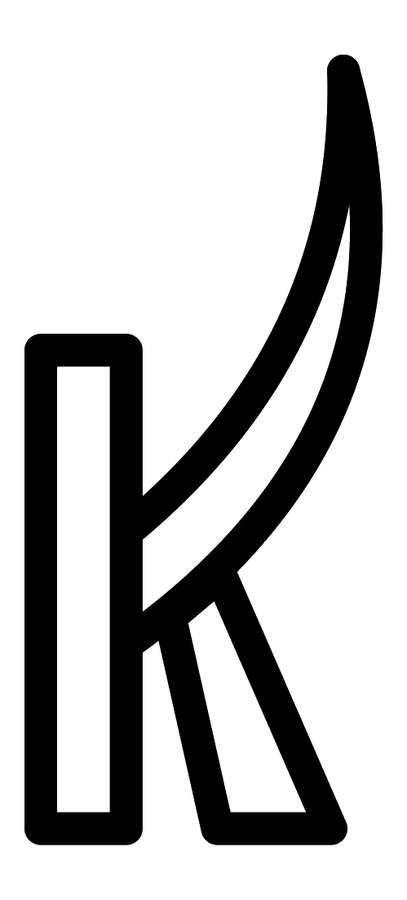
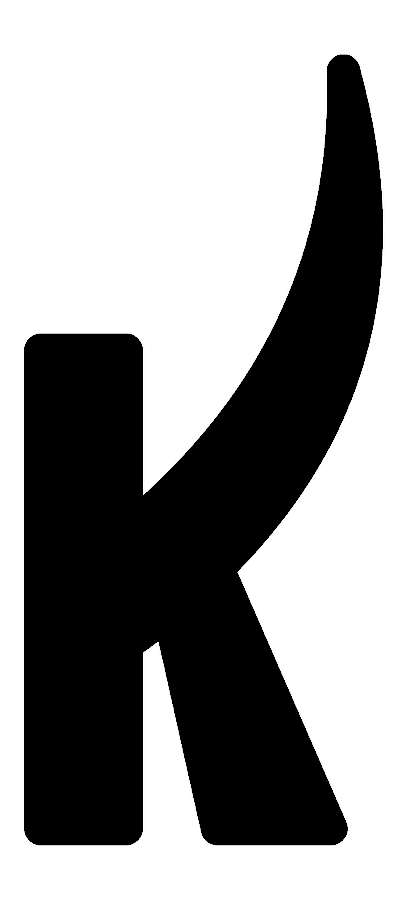
puuuu

Changed region(s): [[0.1179, 0.4044, 0.2948, 0.9022], [0.3243, 0.2178, 0.8845, 0.6844], [0.4423, 0.6533, 0.7666, 0.9022]]

diff --git a/main.js b/main.js
@@ -68,6 +68,22 @@
   qsa(".split-chars").forEach(splitChars);
   qsa(".split-lines").forEach(splitWords);
 
+  // The brand mark replaces the K glyph inside the wordmark itself, in both
+  // the fill and the trace layer, so the name carries the logo from frame one.
+  (function installKMark() {
+    if (!body.classList.contains("home-page")) return;
+    var chars = qsa(".wordmark--fill .char");
+    if (chars.length < 12) return;
+    var kChar = chars[7];
+    kChar.classList.add("char--kmark");
+    kChar.innerHTML = '<img src="assets/brand/k-mark.png" alt="">';
+    if (kChar.parentNode) kChar.parentNode.classList.add("char-clip--kmark");
+    var trace = doc.querySelector(".wordmark--trace");
+    if (trace) {
+      trace.innerHTML = 'Etienne<img class="wordmark__kmark-trace" src="assets/brand/k-mark.png" alt="">ainz';
+    }
+  })();
+
   function initSmoothScroll() {
     if (reduceMotion || !window.Lenis) return;
     try {
@@ -423,7 +439,7 @@
           duration: 0.34,
           ease: "power4.inOut"
         }, 0.035)
-        .to(".wordmark--fill .char-clip", {
+        .to(".wordmark--fill .char-clip:not(.char-clip--kmark)", {
           yPercent: -118,
           rotate: function (index) { return (index % 2 ? 1 : -1) * (1.8 + index * 0.13); },
           duration: 0.24,
@@ -455,44 +471,49 @@
           ease: "power3.in"
         }, 0.78);
 
-      // The Kainz mark takes over from the wordmark's K: it appears on the
-      // letter as the name dissolves, glides to the field centre while
-      // growing, and hands off to the particle K the field assembles.
+      // The wordmark's brand-K stays behind while the letters scatter, then
+      // glides to the field centre and granularly disintegrates through
+      // baked erosion frames — crumbling into the very particle K the field
+      // assembles underneath it.
       var kLogo = hero.querySelector(".hero__klogo");
-      var kChar = hero.querySelectorAll(".wordmark--fill .char-clip")[7];
-      if (kLogo && kChar) {
+      var kInline = hero.querySelector(".char--kmark img");
+      if (kLogo && kInline) {
+        var kFrames = kLogo.querySelectorAll("img");
         var kStart = function () {
           var stageBounds = heroStage.getBoundingClientRect();
-          var charBounds = kChar.getBoundingClientRect();
+          var markBounds = kInline.getBoundingClientRect();
           return {
-            x: charBounds.left - stageBounds.left + charBounds.width / 2 - kLogo.offsetWidth / 2,
-            y: charBounds.top - stageBounds.top + charBounds.height / 2 - kLogo.offsetHeight / 2,
-            scale: charBounds.height * 1.08 / Math.max(1, kLogo.offsetHeight)
+            x: markBounds.left - stageBounds.left + markBounds.width / 2 - kLogo.offsetWidth / 2,
+            y: markBounds.top - stageBounds.top + markBounds.height / 2 - kLogo.offsetHeight / 2,
+            scale: markBounds.height / Math.max(1, kLogo.offsetHeight)
           };
         };
         openingTimeline
+          // Pixel-perfect takeover from the inline mark before letters move.
           .fromTo(kLogo, {
             x: function () { return kStart().x; },
             y: function () { return kStart().y; },
             scale: function () { return kStart().scale; },
-            opacity: 0,
-            filter: "blur(0px)"
-          }, { opacity: 1, duration: 0.05, ease: "none" }, 0.07)
+            opacity: 0
+          }, { opacity: 1, duration: 0.025, ease: "none" }, 0.05)
+          .to(".char-clip--kmark", { opacity: 0, duration: 0.015, ease: "none" }, 0.075)
           .to(kLogo, {
             x: function () { return window.innerWidth * 0.51 - kLogo.offsetWidth / 2; },
             y: function () { return window.innerHeight * 0.45 - kLogo.offsetHeight / 2; },
             scale: function () { return window.innerHeight * 0.55 / Math.max(1, kLogo.offsetHeight); },
-            duration: 0.21,
+            duration: 0.24,
             ease: "power2.inOut"
-          }, 0.115)
-          // Still moving while it decoheres — the mark melts into the same
-          // particles the field is assembling underneath it.
-          .to(kLogo, {
-            opacity: 0,
-            filter: "blur(9px)",
-            duration: 0.14,
-            ease: "power1.inOut"
-          }, 0.26);
+          }, 0.1)
+          // Granular disintegration: solid → coarse → sparse → dust.
+          .to(kFrames[0], { opacity: 0, duration: 0.05, ease: "none" }, 0.26)
+          .to(kFrames[1], { opacity: 1, duration: 0.045, ease: "none" }, 0.252)
+          .to(kFrames[1], { opacity: 0, duration: 0.05, ease: "none" }, 0.315)
+          .to(kFrames[2], { opacity: 1, duration: 0.045, ease: "none" }, 0.308)
+          .to(kFrames[2], { opacity: 0, duration: 0.05, ease: "none" }, 0.37)
+          .to(kFrames[3], { opacity: 1, duration: 0.045, ease: "none" }, 0.362)
+          .to(kFrames[3], { opacity: 0, duration: 0.075, ease: "power1.in" }, 0.425)
+          // The dust keeps drifting up and outward as it converts.
+          .to(kLogo, { y: "-=34", scale: "+=0.06", duration: 0.24, ease: "none" }, 0.26);
       }
     }
 

diff --git a/styles.css b/styles.css
@@ -754,6 +754,24 @@ img {
   height: auto;
 }
 
+/* Baked erosion stages stack on the base mark; GSAP crossfades them. */
+.hero__klogo img + img {
+  position: absolute;
+  inset: 0;
+  opacity: 0;
+  will-change: opacity;
+}
+
+/* The brand mark replaces the K glyph inside the wordmark itself. */
+.char--kmark img,
+.wordmark__kmark-trace {
+  display: inline-block;
+  width: auto;
+  height: .9em;
+  margin: 0 .025em;
+  transform: translateY(.065em);
+}
+
 .hero__subline {
   position: absolute;
   right: var(--pad);

diff --git a/index.html b/index.html
@@ -16,7 +16,7 @@
   <link rel="preconnect" href="https://fonts.googleapis.com">
   <link rel="preconnect" href="https://fonts.gstatic.com" crossorigin>
   <link href="https://fonts.googleapis.com/css2?family=IBM+Plex+Mono:wght@400;500&amp;family=Space+Grotesk:wght@400;500;600&amp;display=swap" rel="stylesheet">
-  <link rel="stylesheet" href="styles.css?v=12">
+  <link rel="stylesheet" href="styles.css?v=13">
 </head>
 <body class="home-page is-loading">
   <a class="skip-link" href="#main">Skip to content</a>
@@ -89,7 +89,12 @@
           <h1 class="wordmark wordmark--fill split-chars">EtienneKainz</h1>
           <div class="wordmark wordmark--trace" aria-hidden="true">EtienneKainz</div>
         </div>
-        <div class="hero__klogo" aria-hidden="true"><img src="assets/brand/k-mark.png" alt=""></div>
+        <div class="hero__klogo" aria-hidden="true">
+          <img src="assets/brand/k-mark.png" alt="">
+          <img src="assets/brand/k-dissolve-1.png" alt="">
+          <img src="assets/brand/k-dissolve-2.png" alt="">
+          <img src="assets/brand/k-dissolve-3.png" alt="">
+        </div>
         <div class="hero__subline" data-reveal="rise">
           <p>Mechanical Engineering — TU Wien · Design / CFD / Propulsion / Structures</p>
         </div>
@@ -423,8 +428,8 @@
   <script src="https://cdn.jsdelivr.net/npm/gsap@3.12.5/dist/ScrollTrigger.min.js"></script>
   <script src="https://cdn.jsdelivr.net/npm/lenis@1.1.20/dist/lenis.min.js"></script>
   <script src="project-data.js?v=3"></script>
-  <script src="quantum-field.js?v=14"></script>
-  <script src="main.js?v=9"></script>
+  <script src="quantum-field.js?v=15"></script>
+  <script src="main.js?v=10"></script>
   <script src="elastic-wave.js?v=1"></script>
 </body>
 </html>

diff --git a/aerial.html b/aerial.html
@@ -10,7 +10,7 @@
   <link rel="preconnect" href="https://fonts.googleapis.com">
   <link rel="preconnect" href="https://fonts.gstatic.com" crossorigin>
   <link href="https://fonts.googleapis.com/css2?family=IBM+Plex+Mono:wght@400;500&amp;family=Space+Grotesk:wght@400;500;600&amp;display=swap" rel="stylesheet">
-  <link rel="stylesheet" href="styles.css?v=12">
+  <link rel="stylesheet" href="styles.css?v=13">
 </head>
 <body class="gallery-page aerial-page">
   <a class="skip-link" href="#galleryMain">Skip to content</a>
@@ -107,7 +107,7 @@
   <script src="https://cdn.jsdelivr.net/npm/gsap@3.12.5/dist/gsap.min.js"></script>
   <script src="https://cdn.jsdelivr.net/npm/gsap@3.12.5/dist/ScrollTrigger.min.js"></script>
   <script src="https://cdn.jsdelivr.net/npm/lenis@1.1.20/dist/lenis.min.js"></script>
-  <script src="quantum-field.js?v=14"></script>
-  <script src="main.js?v=9"></script>
+  <script src="quantum-field.js?v=15"></script>
+  <script src="main.js?v=10"></script>
 </body>
 </html>

diff --git a/drawings.html b/drawings.html
@@ -10,7 +10,7 @@
   <link rel="preconnect" href="https://fonts.googleapis.com">
   <link rel="preconnect" href="https://fonts.gstatic.com" crossorigin>
   <link href="https://fonts.googleapis.com/css2?family=IBM+Plex+Mono:wght@400;500&amp;family=Space+Grotesk:wght@400;500;600&amp;display=swap" rel="stylesheet">
-  <link rel="stylesheet" href="styles.css?v=12">
+  <link rel="stylesheet" href="styles.css?v=13">
 </head>
 <body class="gallery-page drawings-page">
   <a class="skip-link" href="#galleryMain">Skip to content</a>
@@ -134,7 +134,7 @@
   <script src="https://cdn.jsdelivr.net/npm/gsap@3.12.5/dist/gsap.min.js"></script>
   <script src="https://cdn.jsdelivr.net/npm/gsap@3.12.5/dist/ScrollTrigger.min.js"></script>
   <script src="https://cdn.jsdelivr.net/npm/lenis@1.1.20/dist/lenis.min.js"></script>
-  <script src="quantum-field.js?v=14"></script>
-  <script src="main.js?v=9"></script>
+  <script src="quantum-field.js?v=15"></script>
+  <script src="main.js?v=10"></script>
 </body>
 </html>

diff --git a/quantum-field.js b/quantum-field.js
@@ -1037,7 +1037,7 @@
         var drawY = cy * cellSize;
         for (var cx = 0; cx < rasterCols; cx += 1) {
           var density = rasterDensity[rowOffset + cx];
-          if (density < 0.15) continue;
+          if (density < 0.17) continue;
           var cellAlpha = Math.min(0.8, 0.09 + density * 0.34) * rasterAlphaBase;
           if (cellAlpha < 0.02) continue;
           var sprite;